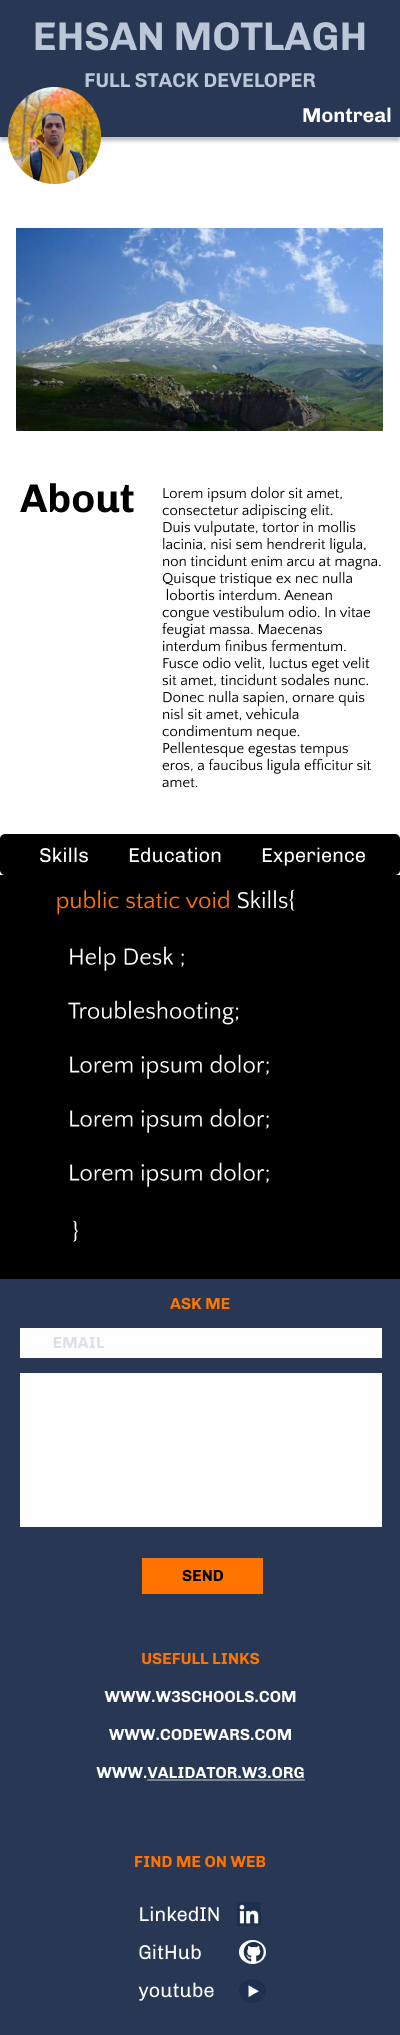
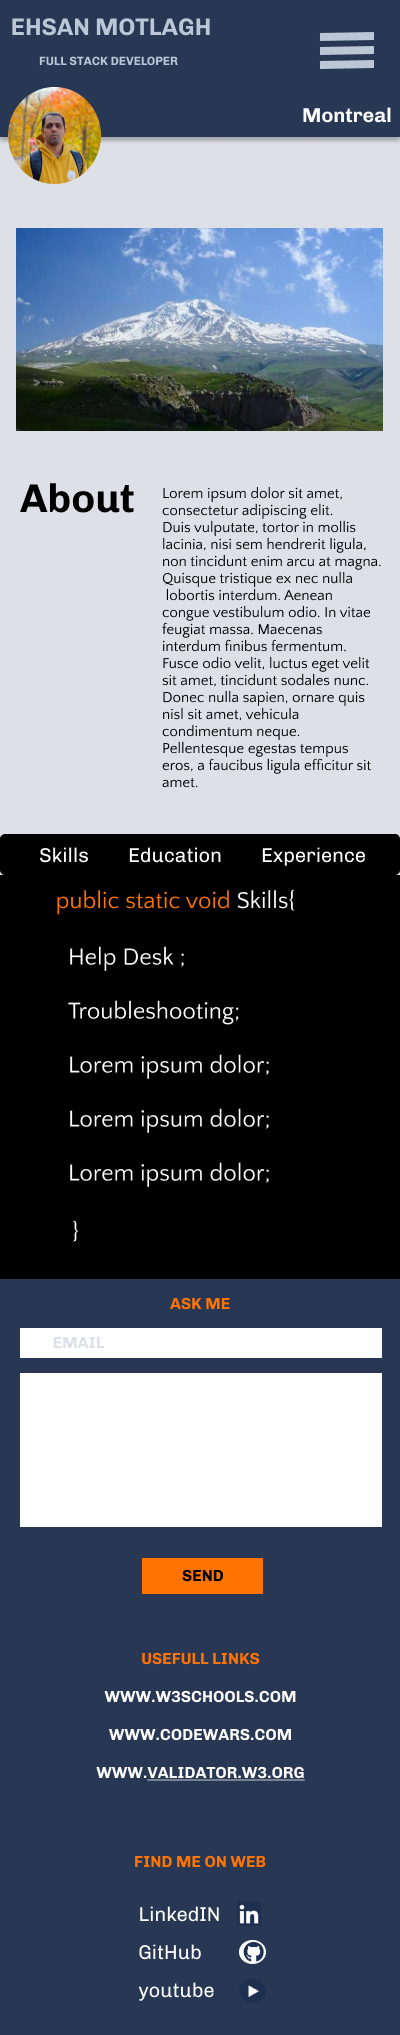
menu update, mob mock

Changed region(s): [[0.0, 0.0, 1.0, 0.4334]]

diff --git a/mockup_mob.html b/mockup_mob.html
@@ -13,14 +13,13 @@
         
             <div class="collapse navbar-collapse" id="navbarSupportedContent">
             <ul class="navbar-nav me-auto mb-2 mb-lg-0">
-
-                <li class="nav-item"><a class="nav-link" href="index.html">Home</a></li>
-                <li class="nav-item"><a class="nav-link" href="wireframes_desk.html">wireframe desktop</a></li>
-                <li class="nav-item"><a class="nav-link" href="wireframe_mob.html">wireframe mobile</a></li>
-                <li class="nav-item"><a class="nav-link" href="site_analysis.html">site analysis</a></li>
-                <li class="nav-item"><a class="nav-link" href="site_map.html">site map</a></li>
-                <li class="nav-item"><a class="nav-link" href="visuals.html">visuals</a></li>
-                <li class="nav-item"><a class="nav-link" href="mockup_mob.html">mobile mockup</a></li>
+                <li class="nav-item"><a class="nav-link" href="site_analysis.html">Site Analysis</a></li>
+                <li class="nav-item"><a class="nav-link" href="site_map.html">Site map</a></li>
+                <li class="nav-item"><a class="nav-link" href="wireframes_desk.html">Wireframe Desktop</a></li>
+                <li class="nav-item"><a class="nav-link" href="wireframe_mob.html">Wireframe Mobile</a></li>
+                <li class="nav-item"><a class="nav-link" href="index.html">Desktop Mock up</a></li>
+                <li class="nav-item"><a class="nav-link" href="visuals.html">Visuals</a></li>
+                <li class="nav-item"><a class="nav-link" href="mockup_mob.html">Mobile Mockup</a></li>
             </ul>
             </div>
         </div>

diff --git a/site_map.html b/site_map.html
@@ -14,13 +14,13 @@
             <div class="collapse navbar-collapse" id="navbarSupportedContent">
             <ul class="navbar-nav me-auto mb-2 mb-lg-0">
 
-                <li class="nav-item"><a class="nav-link" href="index.html">Home</a></li>
-                <li class="nav-item"><a class="nav-link" href="wireframes_desk.html">wireframe desktop</a></li>
-                <li class="nav-item"><a class="nav-link" href="wireframe_mob.html">wireframe mobile</a></li>
-                <li class="nav-item"><a class="nav-link" href="site_analysis.html">site analysis</a></li>
-                <li class="nav-item"><a class="nav-link" href="site_map.html">site map</a></li>
-                <li class="nav-item"><a class="nav-link" href="visuals.html">visuals</a></li>
-                <li class="nav-item"><a class="nav-link" href="mockup_mob.html">mobile mockup</a></li>
+                <li class="nav-item"><a class="nav-link" href="site_analysis.html">Site Analysis</a></li>
+                <li class="nav-item"><a class="nav-link" href="site_map.html">Site map</a></li>
+                <li class="nav-item"><a class="nav-link" href="wireframes_desk.html">Wireframe Desktop</a></li>
+                <li class="nav-item"><a class="nav-link" href="wireframe_mob.html">Wireframe Mobile</a></li>
+                <li class="nav-item"><a class="nav-link" href="index.html">Desktop Mock up</a></li>
+                <li class="nav-item"><a class="nav-link" href="visuals.html">Visuals</a></li>
+                <li class="nav-item"><a class="nav-link" href="mockup_mob.html">Mobile Mockup</a></li>
             </ul>
             </div>
         </div>

diff --git a/visuals.html b/visuals.html
@@ -14,13 +14,13 @@
             <div class="collapse navbar-collapse" id="navbarSupportedContent">
             <ul class="navbar-nav me-auto mb-2 mb-lg-0">
 
-                <li class="nav-item"><a class="nav-link" href="index.html">Home</a></li>
-                <li class="nav-item"><a class="nav-link" href="wireframes_desk.html">wireframe desktop</a></li>
-                <li class="nav-item"><a class="nav-link" href="wireframe_mob.html">wireframe mobile</a></li>
-                <li class="nav-item"><a class="nav-link" href="site_analysis.html">site analysis</a></li>
-                <li class="nav-item"><a class="nav-link" href="site_map.html">site map</a></li>
-                <li class="nav-item"><a class="nav-link" href="visuals.html">visuals</a></li>
-                <li class="nav-item"><a class="nav-link" href="mockup_mob.html">mobile mockup</a></li>
+                <li class="nav-item"><a class="nav-link" href="site_analysis.html">Site Analysis</a></li>
+                <li class="nav-item"><a class="nav-link" href="site_map.html">Site map</a></li>
+                <li class="nav-item"><a class="nav-link" href="wireframes_desk.html">Wireframe Desktop</a></li>
+                <li class="nav-item"><a class="nav-link" href="wireframe_mob.html">Wireframe Mobile</a></li>
+                <li class="nav-item"><a class="nav-link" href="index.html">Desktop Mock up</a></li>
+                <li class="nav-item"><a class="nav-link" href="visuals.html">Visuals</a></li>
+                <li class="nav-item"><a class="nav-link" href="mockup_mob.html">Mobile Mockup</a></li>
             </ul>
             </div>
         </div>

diff --git a/index.html b/index.html
@@ -19,13 +19,13 @@
             <div class="collapse navbar-collapse" id="navbarSupportedContent">
             <ul class="navbar-nav me-auto mb-2 mb-lg-0">
 
-                <li class="nav-item"><a class="nav-link" href="index.html">Home</a></li>
-                <li class="nav-item"><a class="nav-link" href="wireframes_desk.html">wireframe desktop</a></li>
-                <li class="nav-item"><a class="nav-link" href="wireframe_mob.html">wireframe mobile</a></li>
-                <li class="nav-item"><a class="nav-link" href="site_analysis.html">site analysis</a></li>
-                <li class="nav-item"><a class="nav-link" href="site_map.html">site map</a></li>
-                <li class="nav-item"><a class="nav-link" href="visuals.html">visuals</a></li>
-                <li class="nav-item"><a class="nav-link" href="mockup_mob.html">mobile mockup</a></li>
+                <li class="nav-item"><a class="nav-link" href="site_analysis.html">Site Analysis</a></li>
+                <li class="nav-item"><a class="nav-link" href="site_map.html">Site map</a></li>
+                <li class="nav-item"><a class="nav-link" href="wireframes_desk.html">Wireframe Desktop</a></li>
+                <li class="nav-item"><a class="nav-link" href="wireframe_mob.html">Wireframe Mobile</a></li>
+                <li class="nav-item"><a class="nav-link" href="index.html">Desktop Mock up</a></li>
+                <li class="nav-item"><a class="nav-link" href="visuals.html">Visuals</a></li>
+                <li class="nav-item"><a class="nav-link" href="mockup_mob.html">Mobile Mockup</a></li>
             
             </ul>
             

diff --git a/site_analysis.html b/site_analysis.html
@@ -14,13 +14,13 @@
             <div class="collapse navbar-collapse" id="navbarSupportedContent">
             <ul class="navbar-nav me-auto mb-2 mb-lg-0">
 
-                <li class="nav-item"><a class="nav-link" href="index.html">Home</a></li>
-                <li class="nav-item"><a class="nav-link" href="wireframes_desk.html">wireframe desktop</a></li>
-                <li class="nav-item"><a class="nav-link" href="wireframe_mob.html">wireframe mobile</a></li>
-                <li class="nav-item"><a class="nav-link" href="site_analysis.html">site analysis</a></li>
-                <li class="nav-item"><a class="nav-link" href="site_map.html">site map</a></li>
-                <li class="nav-item"><a class="nav-link" href="visuals.html">visuals</a></li>
-                <li class="nav-item"><a class="nav-link" href="mockup_mob.html">mobile mockup</a></li>
+                <li class="nav-item"><a class="nav-link" href="site_analysis.html">Site Analysis</a></li>
+                <li class="nav-item"><a class="nav-link" href="site_map.html">Site map</a></li>
+                <li class="nav-item"><a class="nav-link" href="wireframes_desk.html">Wireframe Desktop</a></li>
+                <li class="nav-item"><a class="nav-link" href="wireframe_mob.html">Wireframe Mobile</a></li>
+                <li class="nav-item"><a class="nav-link" href="index.html">Desktop Mock up</a></li>
+                <li class="nav-item"><a class="nav-link" href="visuals.html">Visuals</a></li>
+                <li class="nav-item"><a class="nav-link" href="mockup_mob.html">Mobile Mockup</a></li>
             
             </ul>
             

diff --git a/wireframe_mob.html b/wireframe_mob.html
@@ -18,13 +18,13 @@
             <div class="collapse navbar-collapse" id="navbarSupportedContent">
             <ul class="navbar-nav me-auto mb-2 mb-lg-0">
 
-                <li class="nav-item"><a class="nav-link" href="index.html">Home</a></li>
-                <li class="nav-item"><a class="nav-link" href="wireframes_desk.html">wireframe desktop</a></li>
-                <li class="nav-item"><a class="nav-link" href="wireframe_mob.html">wireframe mobile</a></li>
-                <li class="nav-item"><a class="nav-link" href="site_analysis.html">site analysis</a></li>
-                <li class="nav-item"><a class="nav-link" href="site_map.html">site map</a></li>
-                <li class="nav-item"><a class="nav-link" href="visuals.html">visuals</a></li>
-                <li class="nav-item"><a class="nav-link" href="mockup_mob.html">mobile mockup</a></li>
+                <li class="nav-item"><a class="nav-link" href="site_analysis.html">Site Analysis</a></li>
+                <li class="nav-item"><a class="nav-link" href="site_map.html">Site map</a></li>
+                <li class="nav-item"><a class="nav-link" href="wireframes_desk.html">Wireframe Desktop</a></li>
+                <li class="nav-item"><a class="nav-link" href="wireframe_mob.html">Wireframe Mobile</a></li>
+                <li class="nav-item"><a class="nav-link" href="index.html">Desktop Mock up</a></li>
+                <li class="nav-item"><a class="nav-link" href="visuals.html">Visuals</a></li>
+                <li class="nav-item"><a class="nav-link" href="mockup_mob.html">Mobile Mockup</a></li>
             
             </ul>
             

diff --git a/wireframes_desk.html b/wireframes_desk.html
@@ -14,13 +14,13 @@
             <div class="collapse navbar-collapse" id="navbarSupportedContent">
             <ul class="navbar-nav me-auto mb-2 mb-lg-0">
 
-                <li class="nav-item"><a class="nav-link" href="index.html">Home</a></li>
-                <li class="nav-item"><a class="nav-link" href="wireframes_desk.html">wireframe desktop</a></li>
-                <li class="nav-item"><a class="nav-link" href="wireframe_mob.html">wireframe mobile</a></li>
-                <li class="nav-item"><a class="nav-link" href="site_analysis.html">site analysis</a></li>
-                <li class="nav-item"><a class="nav-link" href="site_map.html">site map</a></li>
-                <li class="nav-item"><a class="nav-link" href="visuals.html">visuals</a></li>
-                <li class="nav-item"><a class="nav-link" href="mockup_mob.html">mobile mockup</a></li>
+                <li class="nav-item"><a class="nav-link" href="site_analysis.html">Site Analysis</a></li>
+                <li class="nav-item"><a class="nav-link" href="site_map.html">Site map</a></li>
+                <li class="nav-item"><a class="nav-link" href="wireframes_desk.html">Wireframe Desktop</a></li>
+                <li class="nav-item"><a class="nav-link" href="wireframe_mob.html">Wireframe Mobile</a></li>
+                <li class="nav-item"><a class="nav-link" href="index.html">Desktop Mock up</a></li>
+                <li class="nav-item"><a class="nav-link" href="visuals.html">Visuals</a></li>
+                <li class="nav-item"><a class="nav-link" href="mockup_mob.html">Mobile Mockup</a></li>
             
             </ul>
             
